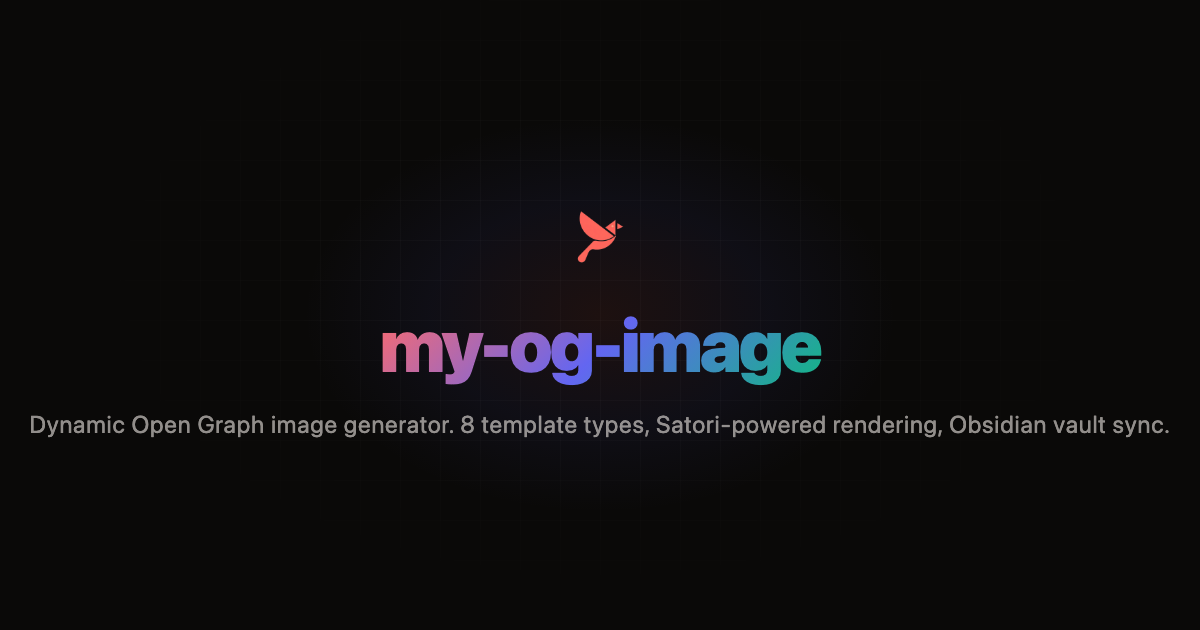
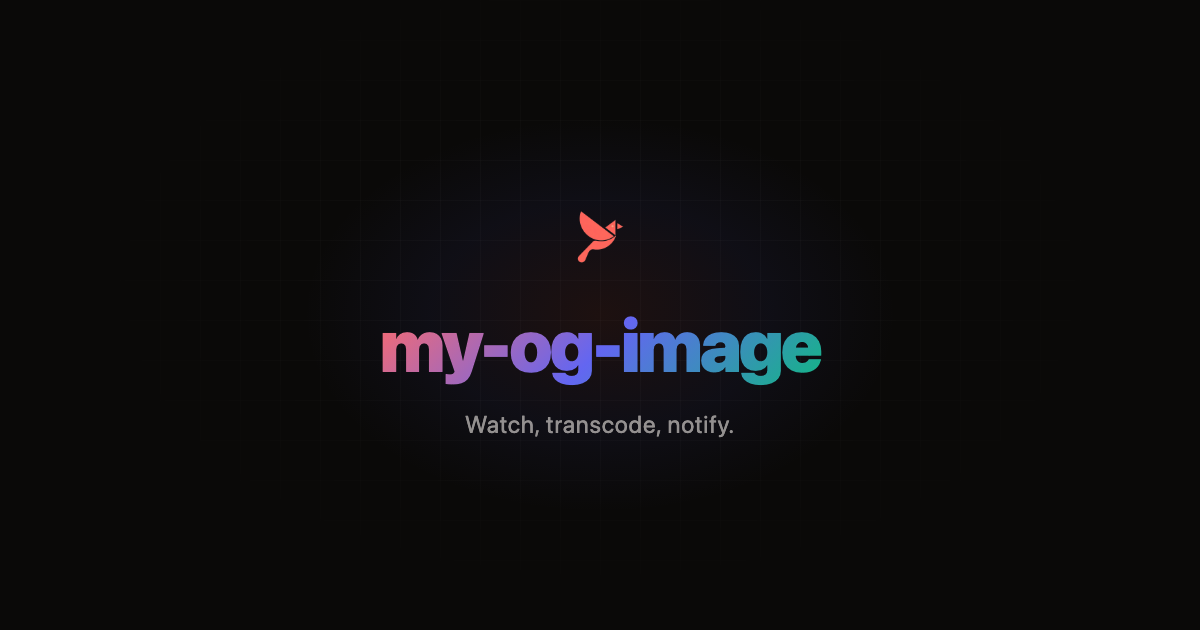
fix: shorter OG tagline, sync site

Changed region(s): [[0.0308, 0.6635, 0.9867, 0.6937]]

diff --git a/docs/index.html b/docs/index.html
@@ -4,22 +4,20 @@
 <meta charset="UTF-8">
 <link rel="preconnect" href="https://fonts.googleapis.com">
 <link rel="preconnect" href="https://fonts.gstatic.com" crossorigin>
-<link rel="preconnect" href="https://fonts.googleapis.com">
-<link rel="preconnect" href="https://fonts.gstatic.com" crossorigin>
-<link href="https://fonts.googleapis.com/css2?family=DM+Sans:ital,opsz,wght@0,9..40,100..1000;1,9..40,100..1000&family=DM+Serif+Display&family=JetBrains+Mono:ital,wght@0,100..800;1,100..800&display=swap" rel="stylesheet">
+<link href="https://fonts.googleapis.com/css2?family=Inter:wght@400;500;600;700&family=Space+Grotesk:wght@500;600;700&family=JetBrains+Mono:wght@400;500&display=swap" rel="stylesheet">
 <meta name="viewport" content="width=device-width, initial-scale=1.0">
-<title>Media Pipeline</title>
-<meta name="description" content="Automated media transcoding pipeline — watch, transcode, notify.">
+<title>my-og-image</title>
+<meta name="description" content="Watch, transcode, notify.">
 <meta name="theme-color" content="#0a0908">
-<meta property="og:title" content="Media Pipeline">
-<meta property="og:description" content="Automated media transcoding pipeline — watch, transcode, notify.">
+<meta property="og:title" content="my-og-image">
+<meta property="og:description" content="Watch, transcode, notify.">
 <meta property="og:type" content="website">
 <meta property="og:image" content="assets/og-image.png">
 <meta property="og:image:width" content="1200">
 <meta property="og:image:height" content="630">
 <meta name="twitter:card" content="summary_large_image">
-<meta name="twitter:title" content="Media Pipeline">
-<meta name="twitter:description" content="Automated media transcoding pipeline — watch, transcode, notify.">
+<meta name="twitter:title" content="my-og-image">
+<meta name="twitter:description" content="Watch, transcode, notify.">
 <meta name="twitter:image" content="assets/og-image.png">
 <link rel="icon" type="image/png" href="assets/logo.png">
 
@@ -77,8 +75,8 @@ tailwind.config = {
   --muted: rgba(245,240,235,0.58);
 
   /* Accents */
-  --primary: #ff9f43;
-  --secondary: #0abde3;
+  --primary: #ff6b6b;
+  --secondary: #6366f1;
   --accent: #10b981;
 
   --primary-dim: color-mix(in srgb, var(--primary) 20%, transparent);
@@ -86,8 +84,8 @@ tailwind.config = {
   --primary-glow: color-mix(in srgb, var(--primary) 40%, transparent);
 
   /* Typography */
-  --font-display: "DM Serif Display", Georgia, serif;
-  --font-body: "DM Sans", system-ui, -apple-system, sans-serif;
+  --font-display: "Space Grotesk", system-ui, sans-serif;
+  --font-body: "Inter", system-ui, sans-serif;
   --font-mono: "JetBrains Mono", "SF Mono", Consolas, monospace;
 
   /* Light theme */
@@ -184,8 +182,8 @@ a:active, button:active { transform: scale(0.97); transition: transform 0.1s eas
   opacity: var(--grid-opacity);
 }
 
-.radial-1 { background: radial-gradient(ellipse 80% 60% at 20% 0%, rgba(255,159,67,0.06) 0%, transparent 60%); opacity: 0.5; }
-.radial-2 { background: radial-gradient(ellipse 60% 50% at 85% 100%, rgba(10,189,227,0.04) 0%, transparent 60%); opacity: 0.5; }
+.radial-1 { background: radial-gradient(ellipse 80% 60% at 20% 0%, rgba(255,107,107,0.08) 0%, transparent 60%); opacity: 0.5; }
+.radial-2 { background: radial-gradient(ellipse 60% 50% at 85% 100%, rgba(99,102,241,0.06) 0%, transparent 60%); opacity: 0.5; }
 
 #back-to-top {
   position: fixed; bottom: 32px; right: 32px; z-index: 50;
@@ -232,15 +230,15 @@ a:active, button:active { transform: scale(0.97); transition: transform 0.1s eas
 <!-- @section nav -->
 <nav class="sticky top-0 z-50 bg-bg/70 backdrop-blur-xl border-b border-border/50 py-3 px-6 transition-colors duration-300">
   <div class="w-full max-w-container mx-auto flex items-center justify-between gap-4">
-    <a href="https://github.com/Sofian-bll/media-pipeline" target="_blank" rel="noopener noreferrer" class="flex items-center gap-3 group shrink-0">
+    <a href="https://github.com/Sofian-bll/my-og-image" target="_blank" rel="noopener noreferrer" class="flex items-center gap-3 group shrink-0">
       <div class="text-text group-hover:scale-110 transition-transform duration-300 drop-shadow-md">
         <img src="assets/logo.png" alt="Logo" class="w-10 h-10 rounded-lg">
       </div>
-      <span class="font-bold text-[16px] whitespace-nowrap text-text group-hover:text-transparent group-hover:bg-clip-text group-hover:bg-gradient-to-r group-hover:from-primary group-hover:to-accent transition-all">Media Pipeline</span>
+      <span class="font-bold text-[16px] whitespace-nowrap text-text group-hover:text-transparent group-hover:bg-clip-text group-hover:bg-gradient-to-r group-hover:from-primary group-hover:to-accent transition-all">my-og-image</span>
     </a>
 
     <div class="flex items-center gap-3 flex-shrink-0">
-      <a href="https://github.com/Sofian-bll/media-pipeline" target="_blank" rel="noopener noreferrer" class="hidden sm:flex items-center gap-2 text-xs font-semibold text-muted hover:text-text transition-colors px-4 py-2 rounded-full border border-border bg-surface hover:border-[var(--primary-dim)] hover:bg-elevated">
+      <a href="https://github.com/Sofian-bll/my-og-image" target="_blank" rel="noopener noreferrer" class="hidden sm:flex items-center gap-2 text-xs font-semibold text-muted hover:text-text transition-colors px-4 py-2 rounded-full border border-border bg-surface hover:border-[var(--primary-dim)] hover:bg-elevated">
         <svg class="w-4 h-4" viewBox="0 0 24 24" fill="currentColor"><path d="M12 0c-6.626 0-12 5.373-12 12 0 5.302 3.438 9.8 8.207 11.387.599.111.793-.261.793-.577v-2.234c-3.338.726-4.033-1.416-4.033-1.416-.546-1.387-1.333-1.756-1.333-1.756-1.089-.745.083-.729.083-.729 1.205.084 1.839 1.237 1.839 1.237 1.07 1.834 2.807 1.304 3.492.997.107-.775.418-1.305.762-1.604-2.665-.305-5.467-1.334-5.467-5.931 0-1.311.469-2.381 1.236-3.221-.124-.303-.535-1.524.117-3.176 0 0 1.008-.322 3.301 1.23.957-.266 1.983-.399 3.003-.404 1.02.005 2.047.138 3.006.404 2.291-1.552 3.297-1.23 3.297-1.23.653 1.653.242 2.874.118 3.176.77.84 1.235 1.911 1.235 3.221 0 4.609-2.807 5.624-5.479 5.921.43.372.823 1.102.823 2.222v3.293c0 .319.192.694.801.576 4.765-1.589 8.199-6.086 8.199-11.386 0-6.627-5.373-12-12-12z"/></svg>
         GitHub
       </a>
@@ -269,15 +267,15 @@ a:active, button:active { transform: scale(0.97); transition: transform 0.1s eas
 
       <div class="flex items-center gap-2 text-primary uppercase tracking-[0.2em] text-[11px] font-bold mb-8 px-4 py-1.5 rounded-full border border-[var(--primary-dim)] bg-[var(--primary-dimmer)] backdrop-blur-sm">
         <span class="w-1.5 h-1.5 bg-primary rounded-full pulse-dot"></span>
-        Open Source
+        Nuxt + Takumi
       </div>
 
       <h1 class="headline text-5xl md:text-7xl lg:text-8xl font-extrabold leading-[1.15] mb-8 max-w-4xl text-gradient">
-        Media Pipeline
+        my-og-image
       </h1>
 
       <p class="text-muted text-lg md:text-xl max-w-2xl leading-relaxed mb-12 font-medium">
-        Automated media transcoding pipeline — watch, transcode, notify.
+        Watch, transcode, notify.
       </p>
 
       <div class="flex flex-col sm:flex-row gap-4 mb-16 w-full sm:w-auto">
@@ -285,7 +283,7 @@ a:active, button:active { transform: scale(0.97); transition: transform 0.1s eas
           Get Started
           <svg class="w-4 h-4" fill="none" viewBox="0 0 24 24" stroke="currentColor"><path stroke-linecap="round" stroke-linejoin="round" stroke-width="2" d="M14 5l7 7m0 0l-7 7m7-7H3"/></svg>
         </a>
-        <a href="https://github.com/Sofian-bll/media-pipeline" target="_blank" rel="noopener noreferrer" class="glass px-8 py-3.5 !rounded-full font-bold text-sm text-text hover:bg-elevated transition-colors flex items-center justify-center gap-2">
+        <a href="https://github.com/Sofian-bll/my-og-image" target="_blank" rel="noopener noreferrer" class="glass px-8 py-3.5 !rounded-full font-bold text-sm text-text hover:bg-elevated transition-colors flex items-center justify-center gap-2">
           View on GitHub
         </a>
       </div>
@@ -297,26 +295,26 @@ a:active, button:active { transform: scale(0.97); transition: transform 0.1s eas
             <svg class="w-5 h-5" viewBox="0 0 24 24" fill="none" stroke="currentColor" stroke-width="1.5"><path d="M11.049 2.927c.3-.921 1.603-.921 1.902 0l1.519 4.674a1 1 0 00.95.69h4.915c.969 0 1.371 1.24.588 1.81l-3.976 2.888a1 1 0 00-.363 1.118l1.518 4.674c.3.922-.755 1.688-1.538 1.118l-3.976-2.888a1 1 0 00-1.176 0l-3.976 2.888c-.783.57-1.838-.197-1.538-1.118l1.518-4.674a1 1 0 00-.363-1.118l-3.976-2.888c-.784-.57-.38-1.81.588-1.81h4.914a1 1 0 00.951-.69l1.519-4.674z"/></svg>
           </div>
           <div class="min-w-0">
-            <div class="text-sm"><span class="font-bold text-lg text-primary leading-tight">Worker Pool API</span> <span class="font-semibold text-text">Bun + TypeScript</span></div>
-            <div class="text-[11px] text-muted mt-0.5 leading-tight"></div>
+            <div class="text-sm"><span class="font-bold text-lg text-primary leading-tight">8</span> <span class="font-semibold text-text">Templates</span></div>
+            <div class="text-[11px] text-muted mt-0.5 leading-tight">Project to Epitech</div>
           </div>
         </div>
 <div class="glass rounded-xl p-4 flex items-center gap-3 text-left">
-          <div class="w-9 h-9 rounded-lg bg-primary/10 text-primary flex items-center justify-center flex-shrink-0">
+          <div class="w-9 h-9 rounded-lg bg-secondary/10 text-secondary flex items-center justify-center flex-shrink-0">
             <svg class="w-5 h-5" viewBox="0 0 24 24" fill="none" stroke="currentColor" stroke-width="1.5"><path d="M11.049 2.927c.3-.921 1.603-.921 1.902 0l1.519 4.674a1 1 0 00.95.69h4.915c.969 0 1.371 1.24.588 1.81l-3.976 2.888a1 1 0 00-.363 1.118l1.518 4.674c.3.922-.755 1.688-1.538 1.118l-3.976-2.888a1 1 0 00-1.176 0l-3.976 2.888c-.783.57-1.838-.197-1.538-1.118l1.518-4.674a1 1 0 00-.363-1.118l-3.976-2.888c-.784-.57-.38-1.81.588-1.81h4.914a1 1 0 00.951-.69l1.519-4.674z"/></svg>
           </div>
           <div class="min-w-0">
-            <div class="text-sm"><span class="font-bold text-lg text-primary leading-tight">Dual Worker</span> <span class="font-semibold text-text">Mac + Cloud</span></div>
-            <div class="text-[11px] text-muted mt-0.5 leading-tight"></div>
+            <div class="text-sm"><span class="font-bold text-lg text-secondary leading-tight">Docker</span> <span class="font-semibold text-text">Ready</span></div>
+            <div class="text-[11px] text-muted mt-0.5 leading-tight">Multi-stage build</div>
           </div>
         </div>
 <div class="glass rounded-xl p-4 flex items-center gap-3 text-left">
-          <div class="w-9 h-9 rounded-lg bg-primary/10 text-primary flex items-center justify-center flex-shrink-0">
+          <div class="w-9 h-9 rounded-lg bg-accent/10 text-accent flex items-center justify-center flex-shrink-0">
             <svg class="w-5 h-5" viewBox="0 0 24 24" fill="none" stroke="currentColor" stroke-width="1.5"><path d="M11.049 2.927c.3-.921 1.603-.921 1.902 0l1.519 4.674a1 1 0 00.95.69h4.915c.969 0 1.371 1.24.588 1.81l-3.976 2.888a1 1 0 00-.363 1.118l1.518 4.674c.3.922-.755 1.688-1.538 1.118l-3.976-2.888a1 1 0 00-1.176 0l-3.976 2.888c-.783.57-1.838-.197-1.538-1.118l1.518-4.674a1 1 0 00-.363-1.118l-3.976-2.888c-.784-.57-.38-1.81.588-1.81h4.914a1 1 0 00.951-.69l1.519-4.674z"/></svg>
           </div>
           <div class="min-w-0">
-            <div class="text-sm"><span class="font-bold text-lg text-primary leading-tight">Orchestration</span> <span class="font-semibold text-text">n8n</span></div>
-            <div class="text-[11px] text-muted mt-0.5 leading-tight"></div>
+            <div class="text-sm"><span class="font-bold text-lg text-accent leading-tight">Obsidian</span> <span class="font-semibold text-text">Sync</span></div>
+            <div class="text-[11px] text-muted mt-0.5 leading-tight">Batch vault updates</div>
           </div>
         </div>
       </div>
@@ -340,35 +338,6 @@ a:active, button:active { transform: scale(0.97); transition: transform 0.1s eas
 <!-- STORY — glass cards with connector dots                      -->
 <!-- ============================================================ -->
 
-<!-- @section story-horizontal -->
-<section class="py-[var(--section-py)] relative">
-  <div class="w-full max-w-container mx-auto px-6">
-    <div class="text-center max-w-container-sm mx-auto mb-20 reveal">
-      <h2 class="headline text-3xl md:text-5xl font-bold mb-6 tracking-tight">Project Evolution</h2>
-      <div class="text-muted text-lg leading-relaxed"><p class="text-muted">From idea to production pipeline.</p></div>
-    </div>
-    <div class="grid grid-cols-1 md:grid-cols-2 gap-6 max-w-4xl mx-auto relative">
-      <div class="hidden md:block absolute top-1/2 left-[20%] right-[20%] h-px bg-gradient-to-r from-transparent via-border to-transparent -translate-y-1/2 z-[-1]"></div>
-            <div class="reveal visible glass rounded-2xl p-6 flex flex-col" style="transition-delay:0.0s">
-        <div class="flex items-center gap-2 mb-4">
-          <span class="text-[10px] font-mono font-bold uppercase tracking-wider border border-secondary/40 text-secondary px-2 py-0.5 rounded-full">June 2026</span>
-          <span class="text-[10px] font-mono font-bold tracking-wider text-muted uppercase"></span>
-        </div>
-        <p class="text-sm text-muted leading-relaxed mb-4 flex-1">Initial commit — watcher, n8n workflow, and worker pool API with Mac SSH transcoding and Discord notifications.</p>
-        
-      </div>
-      <div class="reveal visible glass rounded-2xl p-6 flex flex-col" style="transition-delay:0.1s">
-        <div class="flex items-center gap-2 mb-4">
-          <span class="text-[10px] font-mono font-bold uppercase tracking-wider border border-primary/40 text-primary px-2 py-0.5 rounded-full">v1.0.0</span>
-          <span class="text-[10px] font-mono font-bold tracking-wider text-muted uppercase"></span>
-        </div>
-        <p class="text-sm text-muted leading-relaxed mb-4 flex-1">Release v1.0.0 with bilingual documentation, landing page, and portfolio polish.</p>
-        
-      </div>
-    </div>
-  </div>
-</section>
-<!-- /@section story-horizontal -->
 
 
 <!-- ============================================================ -->
@@ -379,44 +348,37 @@ a:active, button:active { transform: scale(0.97); transition: transform 0.1s eas
 <section class="py-[var(--section-py)] relative">
   <div class="w-full max-w-container mx-auto px-6">
     <div class="text-center max-w-container-sm mx-auto mb-20 reveal">
-      <h2 class="headline text-3xl md:text-5xl font-bold mb-6 tracking-tight">What It Does</h2>
-      <div class="text-muted text-lg leading-relaxed"><p class="text-muted">End-to-end automated video transcoding from your NAS to encoded output.</p></div>
+      <h2 class="headline text-3xl md:text-5xl font-bold mb-6 tracking-tight">Features</h2>
+      <div class="text-muted text-lg leading-relaxed"></div>
     </div>
     <div class="grid grid-cols-1 md:grid-cols-2 gap-6">
             <div class="reveal visible glass rounded-2xl p-8 flex flex-col gap-4" style="transition-delay:0.0s">
         <div class="w-10 h-10 rounded-xl bg-primary/10 text-primary flex items-center justify-center">
           <svg class="w-5 h-5" viewBox="0 0 24 24" fill="none" stroke="currentColor" stroke-width="1.5"><path d="M11.049 2.927c.3-.921 1.603-.921 1.902 0l1.519 4.674a1 1 0 00.95.69h4.915c.969 0 1.371 1.24.588 1.81l-3.976 2.888a1 1 0 00-.363 1.118l1.518 4.674c.3.922-.755 1.688-1.538 1.118l-3.976-2.888a1 1 0 00-1.176 0l-3.976 2.888c-.783.57-1.838-.197-1.538-1.118l1.518-4.674a1 1 0 00-.363-1.118l-3.976-2.888c-.784-.57-.38-1.81.588-1.81h4.914a1 1 0 00.951-.69l1.519-4.674z"/></svg>
         </div>
-        <h3 class="font-bold text-lg">Automatic Detection</h3>
-        <p class="text-muted text-sm leading-relaxed">Watches a NAS folder and detects new video files (mkv, avi, mp4) via polling, tracking already-seen files to avoid duplicates.</p>
+        <h3 class="font-bold text-lg">8 Template Types</h3>
+        <p class="text-muted text-sm leading-relaxed">Project, Resource, Task, Aspiration, Machine, Service, System Config, and Epitech Project.</p>
       </div>
       <div class="reveal visible glass rounded-2xl p-8 flex flex-col gap-4" style="transition-delay:0.1s">
-        <div class="w-10 h-10 rounded-xl bg-primary/10 text-primary flex items-center justify-center">
+        <div class="w-10 h-10 rounded-xl bg-secondary/10 text-secondary flex items-center justify-center">
           <svg class="w-5 h-5" viewBox="0 0 24 24" fill="none" stroke="currentColor" stroke-width="1.5"><path d="M11.049 2.927c.3-.921 1.603-.921 1.902 0l1.519 4.674a1 1 0 00.95.69h4.915c.969 0 1.371 1.24.588 1.81l-3.976 2.888a1 1 0 00-.363 1.118l1.518 4.674c.3.922-.755 1.688-1.538 1.118l-3.976-2.888a1 1 0 00-1.176 0l-3.976 2.888c-.783.57-1.838-.197-1.538-1.118l1.518-4.674a1 1 0 00-.363-1.118l-3.976-2.888c-.784-.57-.38-1.81.588-1.81h4.914a1 1 0 00.951-.69l1.519-4.674z"/></svg>
         </div>
-        <h3 class="font-bold text-lg">Smart Job Dispatch</h3>
-        <p class="text-muted text-sm leading-relaxed">REST API receives transcode jobs from n8n, stores them in SQLite with idempotency tracking, and dispatches to the best available worker.</p>
+        <h3 class="font-bold text-lg">Takumi Renderer</h3>
+        <p class="text-muted text-sm leading-relaxed">Clean, type-driven layouts via @takumi-rs/core. Pure SVG with Satori — no canvas, no headless browser.</p>
       </div>
       <div class="reveal visible glass rounded-2xl p-8 flex flex-col gap-4" style="transition-delay:0.2s">
-        <div class="w-10 h-10 rounded-xl bg-primary/10 text-primary flex items-center justify-center">
+        <div class="w-10 h-10 rounded-xl bg-accent/10 text-accent flex items-center justify-center">
           <svg class="w-5 h-5" viewBox="0 0 24 24" fill="none" stroke="currentColor" stroke-width="1.5"><path d="M11.049 2.927c.3-.921 1.603-.921 1.902 0l1.519 4.674a1 1 0 00.95.69h4.915c.969 0 1.371 1.24.588 1.81l-3.976 2.888a1 1 0 00-.363 1.118l1.518 4.674c.3.922-.755 1.688-1.538 1.118l-3.976-2.888a1 1 0 00-1.176 0l-3.976 2.888c-.783.57-1.838-.197-1.538-1.118l1.518-4.674a1 1 0 00-.363-1.118l-3.976-2.888c-.784-.57-.38-1.81.588-1.81h4.914a1 1 0 00.951-.69l1.519-4.674z"/></svg>
         </div>
-        <h3 class="font-bold text-lg">SSH Mac Worker</h3>
-        <p class="text-muted text-sm leading-relaxed">Primary transcoding runs on your Mac via SSH + ffmpeg, with automatic retry logic for connection failures and stalled jobs.</p>
+        <h3 class="font-bold text-lg">Obsidian Vault Sync</h3>
+        <p class="text-muted text-sm leading-relaxed">Batch-apply OG URLs across an entire vault via Python scripts. Dry-run mode included.</p>
       </div>
       <div class="reveal visible glass rounded-2xl p-8 flex flex-col gap-4" style="transition-delay:0.3s">
         <div class="w-10 h-10 rounded-xl bg-primary/10 text-primary flex items-center justify-center">
           <svg class="w-5 h-5" viewBox="0 0 24 24" fill="none" stroke="currentColor" stroke-width="1.5"><path d="M11.049 2.927c.3-.921 1.603-.921 1.902 0l1.519 4.674a1 1 0 00.95.69h4.915c.969 0 1.371 1.24.588 1.81l-3.976 2.888a1 1 0 00-.363 1.118l1.518 4.674c.3.922-.755 1.688-1.538 1.118l-3.976-2.888a1 1 0 00-1.176 0l-3.976 2.888c-.783.57-1.838-.197-1.538-1.118l1.518-4.674a1 1 0 00-.363-1.118l-3.976-2.888c-.784-.57-.38-1.81.588-1.81h4.914a1 1 0 00.951-.69l1.519-4.674z"/></svg>
         </div>
-        <h3 class="font-bold text-lg">Cloud Fallback</h3>
-        <p class="text-muted text-sm leading-relaxed">When the Mac is offline, spins up DigitalOcean droplets from a snapshot for on-demand transcoding with cost estimation.</p>
-      </div>
-      <div class="reveal visible glass rounded-2xl p-8 flex flex-col gap-4" style="transition-delay:0.4s">
-        <div class="w-10 h-10 rounded-xl bg-primary/10 text-primary flex items-center justify-center">
-          <svg class="w-5 h-5" viewBox="0 0 24 24" fill="none" stroke="currentColor" stroke-width="1.5"><path d="M11.049 2.927c.3-.921 1.603-.921 1.902 0l1.519 4.674a1 1 0 00.95.69h4.915c.969 0 1.371 1.24.588 1.81l-3.976 2.888a1 1 0 00-.363 1.118l1.518 4.674c.3.922-.755 1.688-1.538 1.118l-3.976-2.888a1 1 0 00-1.176 0l-3.976 2.888c-.783.57-1.838-.197-1.538-1.118l1.518-4.674a1 1 0 00-.363-1.118l-3.976-2.888c-.784-.57-.38-1.81.588-1.81h4.914a1 1 0 00.951-.69l1.519-4.674z"/></svg>
-        </div>
-        <h3 class="font-bold text-lg">n8n Orchestration</h3>
-        <p class="text-muted text-sm leading-relaxed">Visual workflow automation connects the watcher to the worker pool and dispatches Discord notifications on job completion or failure.</p>
+        <h3 class="font-bold text-lg">Docker Ready</h3>
+        <p class="text-muted text-sm leading-relaxed">Multi-stage Dockerfile + compose. Deploy to any VPS in minutes.</p>
       </div>
     </div>
   </div>
@@ -437,7 +399,7 @@ a:active, button:active { transform: scale(0.97); transition: transform 0.1s eas
   <div class="w-full max-w-container mx-auto px-6">
     <div class="text-center max-w-container-sm mx-auto mb-16 reveal">
       <h2 class="headline text-3xl md:text-5xl font-bold mb-6 tracking-tight">Quick Start</h2>
-      <div class="text-muted text-lg"><p class="text-muted">Get up and running with a single Docker Compose command.</p></div>
+      <div class="text-muted text-lg"><p class="text-muted">Get up and running in under 60 seconds.</p></div>
     </div>
     <div class="grid grid-cols-1 lg:grid-cols-2 gap-8 items-start">
             <div class="reveal visible glass rounded-2xl overflow-hidden flex flex-col group" style="transition-delay:0.0s">
@@ -505,16 +467,62 @@ a:active, button:active { transform: scale(0.97); transition: transform 0.1s eas
           <span class="text-xs text-muted ml-3 font-mono font-medium tracking-wider select-none">project-architecture</span>
         </div>
         <div class="p-6 bg-[#09090b] dark:bg-transparent overflow-x-auto">
-          <pre class="font-mono text-sm leading-loose text-gray-300">media-pipeline/
-├── watcher/         # Docker container — polls NAS for new files
-├── n8n/             # n8n workflow JSON — orchestration
-├── worker-pool/     # Bun/TypeScript API — job dispatch + transcoding
-├── scripts/         # Maintenance scripts (cleanup.sh)
-├── docs/            # Landing page + OG image
-├── docker-compose.yml
-├── .env.example
+          <pre class="font-mono text-sm leading-loose text-gray-300">my-og-image/
+├── .gitignore
+├── .npmrc
+├── .nuxt/
+│   ├── app.config.mjs
+│   ├── cache/
+│   ├── components.d.ts
+│   ├── dev/
+│   ├── imports.d.ts
+│   ├── manifest/
+│   ├── module/
+│   ├── nitro.json
+│   ├── nuxt-fonts-global.css
+│   ├── nuxt.d.ts
+│   ├── nuxt.json
+│   ├── nuxt.node.d.ts
+│   ├── nuxt.shared.d.ts
+│   ├── schema/
+│   ├── tsconfig.app.json
+│   ├── tsconfig.json
+│   ├── tsconfig.node.json
+│   ├── tsconfig.server.json
+│   ├── tsconfig.shared.json
+│   └── types/
+├── .output/
+│   ├── nitro.json
+│   ├── public/
+│   └── server/
+├── Dockerfile
+├── Dockerfile.dev
+├── LICENSE
+├── README.fr.md
 ├── README.md
-└── LICENSE</pre>
+├── app.vue
+├── assets/
+├── bun.lock
+├── components/
+│   └── OgImage/
+├── docker-compose.dev.yml
+├── docker-compose.yml
+├── docs/
+│   ├── .nojekyll
+│   ├── assets/
+│   └── index.html
+├── nuxt.config.ts
+├── package.json
+├── pnpm-lock.yaml
+├── pnpm-workspace.yaml
+├── scripts/
+│   ├── apply-og-images-homelab.py
+│   └── apply-og-images.py
+├── server/
+│   └── api/
+├── src/
+│   └── templates/
+└── tsconfig.json</pre>
         </div>
       </div>
     </div>
@@ -533,16 +541,13 @@ a:active, button:active { transform: scale(0.97); transition: transform 0.1s eas
   <div class="w-full max-w-container mx-auto flex flex-col md:flex-row items-center justify-between gap-3">
     <div class="flex flex-col items-center md:items-start gap-1 text-xs text-muted">
       <div class="font-semibold text-text">
-        Media Pipeline
+        my-og-image
       </div>
       <div>MIT License &copy; 2026 Sofian</div>
     </div>
     <div class="flex items-center gap-4 text-sm font-medium text-muted">
-      <a href="https://www.typescriptlang.org/" target="_blank" rel="noopener"><img src="https://img.shields.io/badge/typescript-%23007ACC.svg?style=flat&logo=typescript&logoColor=white" alt="TypeScript" class="h-5"></a>
+      <img src="https://img.shields.io/badge/node.js-6DA55F?style=flat&logo=node.js&logoColor=white" alt="Node.js" class="h-5">
         <a href="https://www.docker.com/" target="_blank" rel="noopener"><img src="https://img.shields.io/badge/docker-%230db7ed.svg?style=flat&logo=docker&logoColor=white" alt="Docker" class="h-5"></a>
-        <a href="https://www.gnu.org/software/bash/" target="_blank" rel="noopener"><img src="https://img.shields.io/badge/bash-%23121011.svg?style=flat&logo=gnu-bash&logoColor=white" alt="Bash" class="h-5"></a>
-        <a href="https://ffmpeg.org/" target="_blank" rel="noopener"><img src="https://img.shields.io/badge/ffmpeg-007808?style=flat&logo=ffmpeg&logoColor=white" alt="FFmpeg" class="h-5"></a>
-        <img src="https://img.shields.io/badge/sqlite-%2307405e.svg?style=flat&logo=sqlite&logoColor=white" alt="SQLite" class="h-5">
     </div>
   </div>
 </footer>